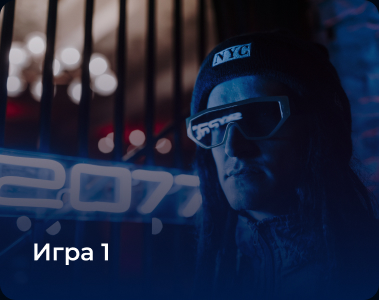
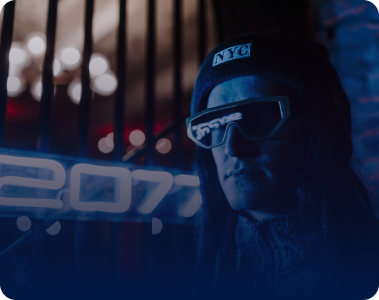
Сделана первая домашка

diff --git a/index.html b/index.html
@@ -6,28 +6,64 @@
     <meta http-equiv="X-UA-Compatible" content="IE=edge">
     <meta name="viewport" content="width=device-width, initial-scale=1.0">
     <title>Document</title>
+    <link rel="preconnect" href="https://fonts.googleapis.com">
+    <link rel="preconnect" href="https://fonts.gstatic.com" crossorigin>
+    <link rel="preconnect" href="https://fonts.googleapis.com">
+    <link rel="preconnect" href="https://fonts.gstatic.com" crossorigin>
+    <link
+        href="https://fonts.googleapis.com/css2?family=Montserrat:ital,wght@0,200;0,300;0,400;0,500;0,700;1,100&family=Poppins:wght@100&display=swap"
+        rel="stylesheet">
     <link rel="stylesheet" href="style.css">
 </head>
 
-<body>
-    <section class="title">
-        <h1>
+<body class="body">
+    <section class="title center">
+        <h1 class="title__header">
             Добро пожаловать на мой сайт !
         </h1>
-        <h2>
-            Вам предстоит пройти несколько увлекательных игр. Если готов нажимай поехали и приступай
+        <h2 class="title__caption">
+            Вам предстоит пройти несколько увлекательных игр. Если готов нажимай <span class="fat">поехали</span> и
+            <span class="fat">приступай</span>
         </h2>
-        <button>
+        <button class="title__button">
             Поехали!
         </button>
     </section>
-    <div>
-        <footer>
-            <a href="#"></a>
-            <a href="#"></a>
-            <a href="#"></a>
-        </footer>
-    </div>
+
+    <footer class="footer center">
+        <div class="footer__links">
+            <a class="footer__link footer__link--left" href="#">
+                <!-- <img class="footer__img" src="img/game-1.jpg" alt="Игра-1"> -->
+                <p class="footer__name">Игра-1</p>
+            </a>
+            <a class="footer__link footer__link--center" href="#">
+                <!-- <img class="footer__img" src="img/game-2.png" alt="Игра-2"> -->
+                <p class="footer__name">Игра-2</p>
+            </a>
+            <a class="footer__link footer__link--right" href="#">
+                <!-- <img class="footer__img" src="img/game-3.jpg" alt="Игра-3"> -->
+                <p class="footer__name">Игра-3</p>
+            </a>
+        </div>
+    </footer>
+
+    <footer class="footer center">
+        <div class="footer__links">
+            <a class="footer22__link" href="#">
+                <img class="footer22__img" src="img/game-1.jpg" alt="Игра-1">
+                <p class="footer22__name">Игра-1</p>
+            </a>
+            <a class="footer22__link" href="#">
+                <img class="footer22__img" src="img/game-2.png" alt="Игра-2">
+                <p class="footer22__name">Игра-2</p>
+            </a>
+            <a class="footer22__link" href="#">
+                <img class="footer22__img" src="img/game-3.jpg" alt="Игра-3">
+                <p class="footer22__name">Игра-3</p>
+            </a>
+        </div>
+    </footer>
+
 </body>
 
 </html>

diff --git a/style.scss b/style.scss
@@ -1,0 +1,138 @@
+* {
+    margin: 0;
+    padding: 0;
+    border: 0;
+}
+
+.center {
+    padding-left: calc(50% - 600px);
+    padding-right: calc(50% - 600px);
+}
+
+body {
+    background-color: #000915;
+}
+
+.title {
+
+    background-image: url(img/background.png);
+    background-repeat: no-repeat;
+    height: 1024px;
+    background-position: center;
+    @media (min-width:1301px) {
+        background-color: #000915;
+    }
+    @media (max-width: 1300px) {
+        background-size: cover;
+    }
+
+
+    &__header {
+        max-width: 666px;
+        color: rgb(255, 255, 255);
+        font-family: Montserrat;
+        font-size: 64px;
+        font-weight: 700;
+        line-height: 78px;
+        padding-top: 15%;
+        margin-bottom: 32px;
+    }
+
+    &__caption {
+        width: 481px;
+        height: 6.25%;
+        color: rgb(255, 255, 255);
+        font-family: Montserrat;
+        font-size: 18px;
+        font-weight: 100;
+        line-height: 32px;
+    }
+
+    &__button {
+        width: 234px;
+        height: 48px;
+        border-radius: 30px;
+        border-style: none;
+        background-color: #9C0332;
+        color: #ffffff;
+        font-family: Montserrat;
+        font-size: 18px;
+        font-weight: 400;
+        line-height: 22px;
+        text-align: center;
+        margin-top: 44px;
+        margin-bottom: 493px;
+    }
+}
+
+.fat {
+    font-weight: 700;
+}
+
+.footer {
+
+    &__links {
+        display: flex;
+        justify-content: center;
+        gap: 32px;
+        align-content: center;
+        flex-wrap: wrap;
+        padding-block: 128px;
+    }
+
+    // option #1
+
+    &__link {
+        background-repeat: no-repeat;
+        background-size: cover;
+        background-position: center;
+        width: 378px;
+        height: 300px;
+        display: flex;
+        justify-content: start;
+        align-items: end;
+        padding: 32px;
+        box-sizing: border-box;
+
+        &--left {
+            background: url(img/game-1.png);
+        }
+
+        &--center {
+            background: url(img/game-2.png);
+        }
+
+        &--right {
+            background: url(img/game-3.png);
+        }
+    }
+
+    &__name {
+        font-family: Montserrat;
+        font-size: 24px;
+        font-weight: 400;
+        line-height: 32px;
+        color: #ffffff;
+    }
+
+    // option #2
+
+    &22__link {
+        position: relative;
+    }
+
+    &22__img {
+        border-radius: 30px;
+    }
+
+    &22__name {
+        font-family: Montserrat;
+        font-size: 24px;
+        font-weight: 400;
+        line-height: 32px;
+        color: #ffffff;
+        position: absolute;
+        left: 32px;
+        bottom: 32px;
+    }
+}

diff --git a/style.css b/style.css
@@ -1,0 +1,123 @@
+* {
+  margin: 0;
+  padding: 0;
+  border: 0;
+}
+
+.center {
+  padding-left: calc(50% - 600px);
+  padding-right: calc(50% - 600px);
+}
+
+body {
+  background-color: #000915;
+}
+
+.title {
+  background-image: url(img/background.png);
+  background-repeat: no-repeat;
+  background-position: 50% 100%;
+  height: 1024px;
+}
+/* @media (min-width: 1301px) {
+  .title {
+    background-position: center;
+    background-color: #000915;
+  }
+}
+@media (max-width: 1300px) {
+  .title {
+    background-size: cover;
+  }
+} */
+.title__header {
+  max-width: 666px;
+  color: rgb(255, 255, 255);
+  font-family: Montserrat;
+  font-size: 64px;
+  font-weight: 700;
+  line-height: 78px;
+  padding-top: 15%;
+  margin-bottom: 32px;
+}
+.title__caption {
+  width: 481px;
+  height: 6.25%;
+  color: rgb(255, 255, 255);
+  font-family: Montserrat;
+  font-size: 18px;
+  font-weight: 100;
+  line-height: 32px;
+}
+.title__button {
+  width: 234px;
+  height: 48px;
+  border-radius: 30px;
+  border-style: none;
+  background-color: #9C0332;
+  color: #ffffff;
+  font-family: Montserrat;
+  font-size: 18px;
+  font-weight: 400;
+  line-height: 22px;
+  text-align: center;
+  margin-top: 44px;
+  margin-bottom: 493px;
+}
+
+.fat {
+  font-weight: 700;
+}
+
+.footer__links {
+  display: flex;
+  justify-content: center;
+  gap: 32px;
+  align-content: center;
+  flex-wrap: wrap;
+  padding-block: 128px;
+}
+.footer__link {
+  background-repeat: no-repeat;
+  background-size: cover;
+  background-position: center;
+  width: 378px;
+  height: 300px;
+  display: flex;
+  justify-content: start;
+  align-items: end;
+  padding: 32px;
+  box-sizing: border-box;
+}
+.footer__link--left {
+  background: url(img/game-1.png);
+}
+.footer__link--center {
+  background: url(img/game-2.png);
+}
+.footer__link--right {
+  background: url(img/game-3.png);
+}
+.footer__name {
+  font-family: Montserrat;
+  font-size: 24px;
+  font-weight: 400;
+  line-height: 32px;
+  color: #ffffff;
+}
+.footer22__link {
+  position: relative;
+}
+.footer22__img {
+  border-radius: 30px;
+}
+.footer22__name {
+  font-family: Montserrat;
+  font-size: 24px;
+  font-weight: 400;
+  line-height: 32px;
+  color: #ffffff;
+  position: absolute;
+  left: 32px;
+  bottom: 32px;
+}/*# sourceMappingURL=style.css.map */
